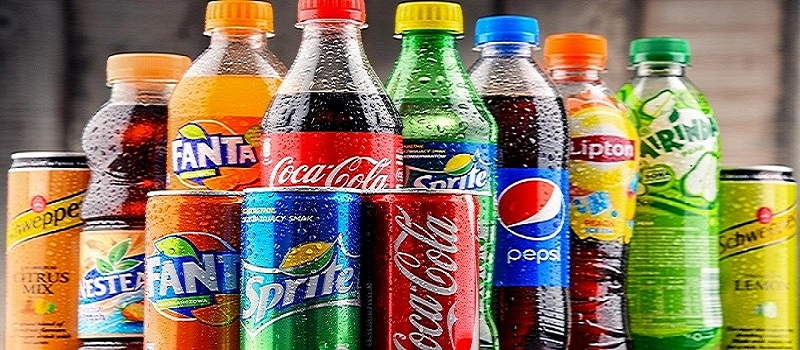
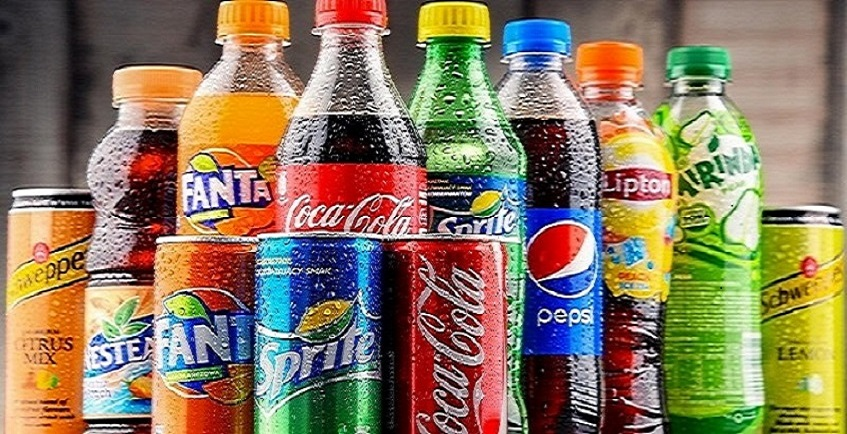
git commit

diff --git a/css/banner-top.css b/css/banner-top.css
@@ -1,7 +1,7 @@
 .banner{
 	min-height: 400px;
 	min-width: 1000px;
-	background: url(../image/banner1.jpg);
+	background: url(../image/bannerwater.jpg);
 	background-repeat: no-repeat;
 	background-size: contain;
 	background-position: center;
